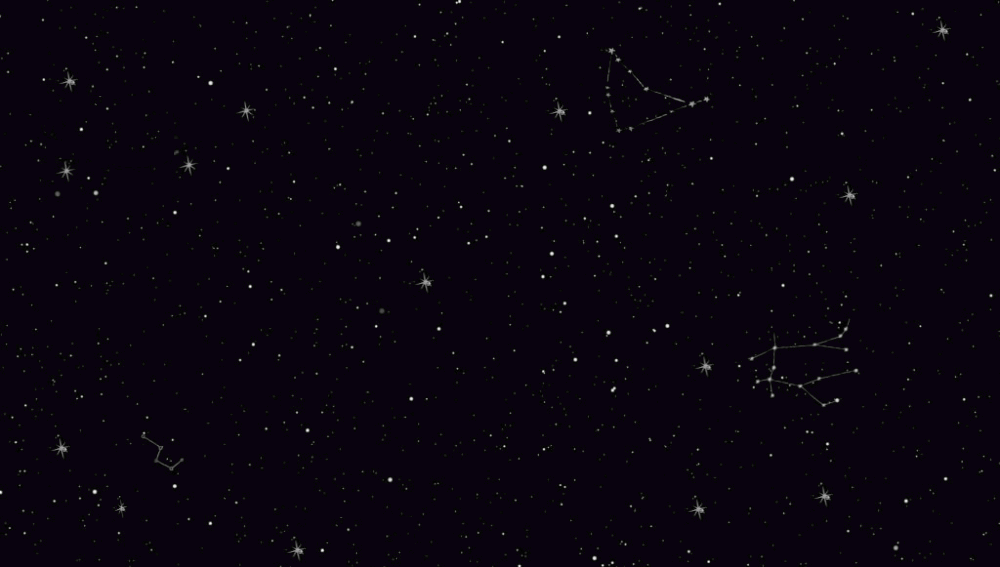
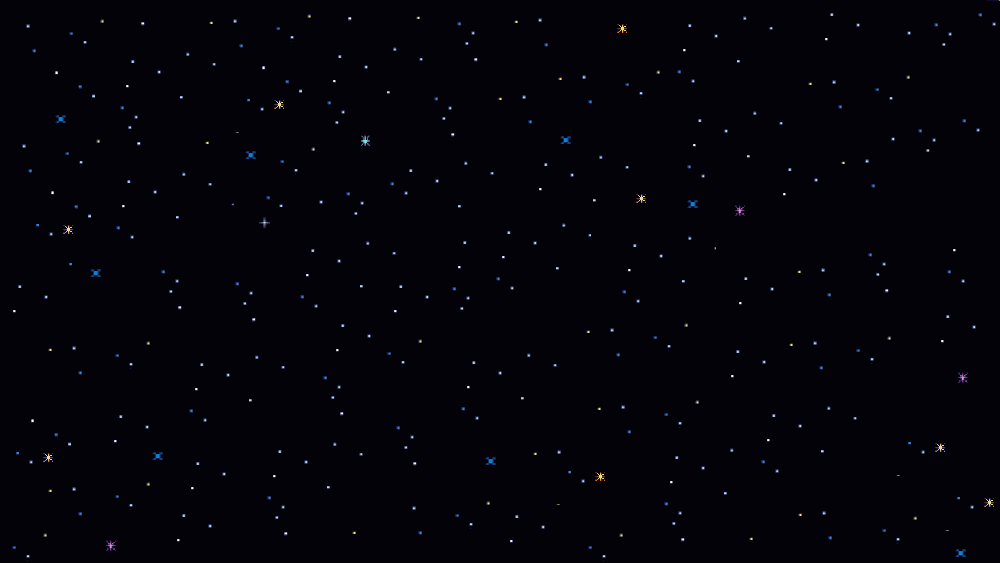
Cambiar fondo del juego y implementar espacio determinado de la nave

diff --git a/src/Lógica/Entidades/NaveJugador.java b/src/Lógica/Entidades/NaveJugador.java
@@ -6,15 +6,15 @@ import Presentación.Ventanas.VentanaAdministradora;
 
 public class NaveJugador extends Nave {
   private AdministradorEventoTeclas administradorTeclas;
-  private int posiciónX, posiciónY;
+  private int posiciónX, posiciónY, nuevaPosiciónX;
   private final int velocidad = 4;
+  private final int anchoNave = VentanaAdministradora.obtenerTamañoEntidad();
+  private final int altoNave = VentanaAdministradora.obtenerTamañoEntidad();
 
   public NaveJugador(AdministradorEventoTeclas administradorTeclas) {
     this.administradorTeclas = administradorTeclas;
-    posiciónX = (VentanaAdministradora.obtenerAnchoVentana() / 2) -
-      (VentanaAdministradora.obtenerTamañoEntidad() / 2);
-    posiciónY = VentanaAdministradora.obtenerAltoVentana() -
-      (VentanaAdministradora.obtenerTamañoEntidad() * 2);
+    posiciónX = (VentanaAdministradora.obtenerAnchoVentana() / 2) - (anchoNave / 2);
+    posiciónY = VentanaAdministradora.obtenerAltoVentana() - (altoNave * 2);
   }
 
   public void actualizarMovimiento() {
@@ -22,12 +22,20 @@ public class NaveJugador extends Nave {
     if (dirección == null) {
       return;
     }
-
+    nuevaPosiciónX = posiciónX;
     if (dirección == Movimiento.DERECHA) {
-      posiciónX += velocidad;
+      nuevaPosiciónX += velocidad;
     } else if (dirección == Movimiento.IZQUIERDA) {
-      posiciónX -= velocidad;
+      nuevaPosiciónX -= velocidad;
     }
+
+    if (nuevaPosiciónX < 0) {
+      nuevaPosiciónX = 0;
+    } else if (nuevaPosiciónX + anchoNave > VentanaAdministradora.obtenerAnchoVentana()) {
+      nuevaPosiciónX = VentanaAdministradora.obtenerAnchoVentana() - anchoNave;
+    }
+
+    posiciónX = nuevaPosiciónX;
   }
 
   public int obtenerPosiciónX() {

diff --git a/src/Presentación/Ventanas/VentanaJuego.java b/src/Presentación/Ventanas/VentanaJuego.java
@@ -38,8 +38,7 @@ public class VentanaJuego extends JPanel implements Runnable {
   }
 
   private void configurarVentana() {
-    //setBackground(Color.GREEN);
-    setPreferredSize(new Dimension(800, 600));
+    setPreferredSize(new Dimension(600, 600));
   }
 
   private void cargarImagenDeFondo() {
@@ -49,7 +48,6 @@ public class VentanaJuego extends JPanel implements Runnable {
       e.printStackTrace();
     }
   }
-
 
   public void iniciarHiloJuego() {
     hiloJuego = new Thread(this);
@@ -66,7 +64,7 @@ public class VentanaJuego extends JPanel implements Runnable {
 
   protected void paintComponent(Graphics graphics) {
     super.paintComponent(graphics);
-    graphics.drawImage(fondoJuego, 0, 0, null);
+    graphics.drawImage(fondoJuego, 0, 0, getWidth(), getHeight(), this);
     Graphics2D graphics2D = (Graphics2D) graphics;
     for (int i = 0; i < pintorEnemigos.size(); i += 1) {
       pintorEnemigos.get(i).dibujar(graphics2D, i + 1, 0, 0);
